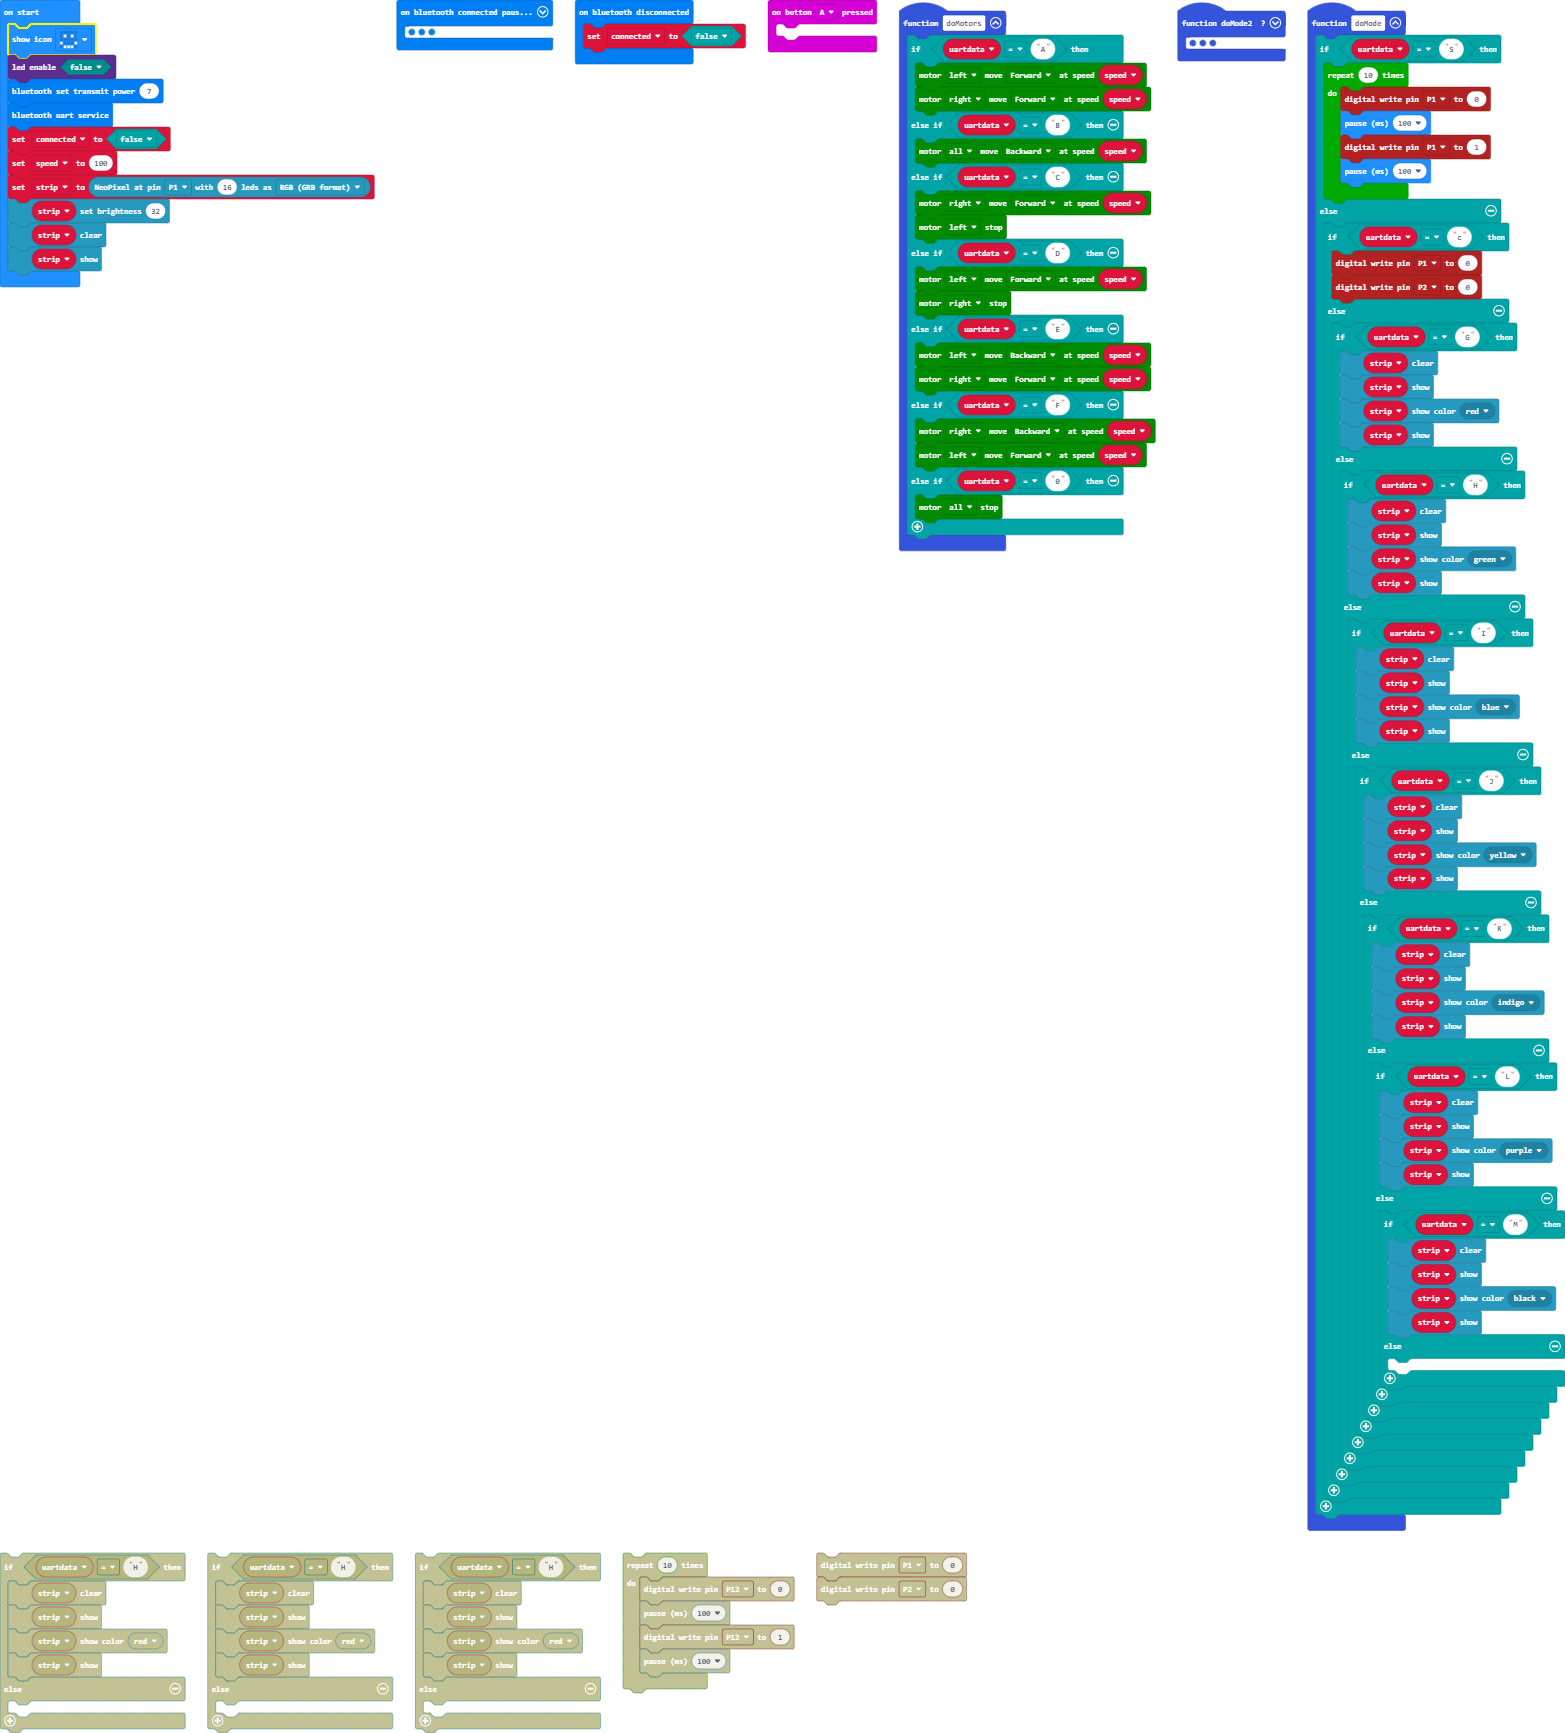
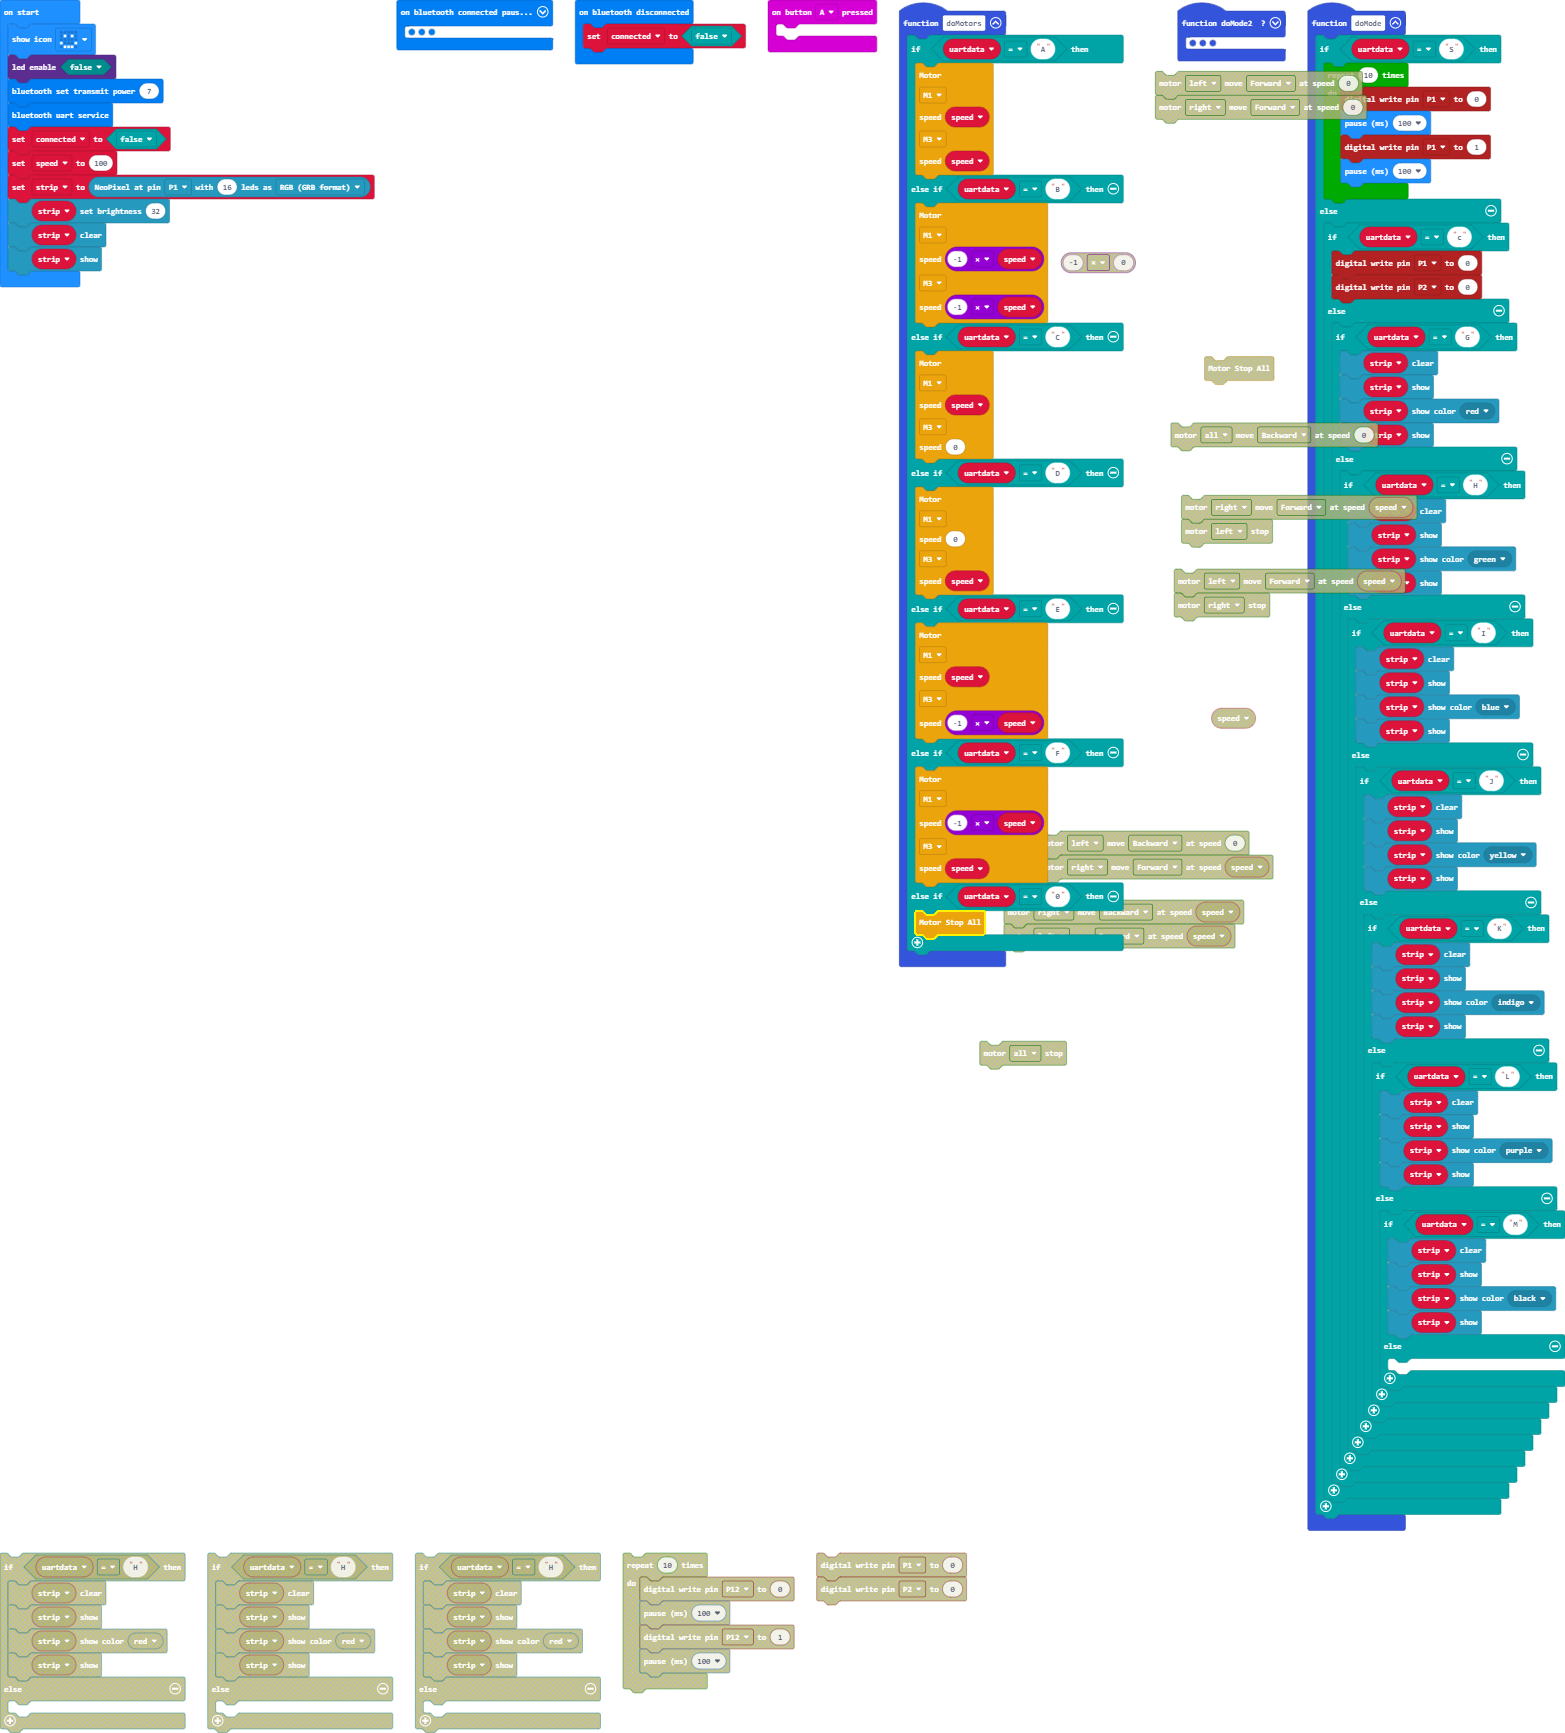
superbit version

Changed region(s): [[0.5521, 0.0312, 0.9201, 0.5609], [0.6134, 0.592, 0.7054, 0.6232], [0.7668, 0.4051, 0.7974, 0.4362]]

diff --git a/main.ts b/main.ts
@@ -84,24 +84,49 @@ input.onButtonPressed(Button.A, function () {
 })
 function doMotors () {
     if (uartdata == "A") {
-        maqueen.motorRun(maqueen.Motors.M1, maqueen.Dir.CW, speed)
-        maqueen.motorRun(maqueen.Motors.M2, maqueen.Dir.CW, speed)
+        SuperBit.MotorRunDual(
+        SuperBit.enMotors.M1,
+        speed,
+        SuperBit.enMotors.M3,
+        speed
+        )
     } else if (uartdata == "B") {
-        maqueen.motorRun(maqueen.Motors.All, maqueen.Dir.CCW, speed)
+        SuperBit.MotorRunDual(
+        SuperBit.enMotors.M1,
+        -1 * speed,
+        SuperBit.enMotors.M3,
+        -1 * speed
+        )
     } else if (uartdata == "C") {
-        maqueen.motorRun(maqueen.Motors.M2, maqueen.Dir.CW, speed)
-        maqueen.motorStop(maqueen.Motors.M1)
+        SuperBit.MotorRunDual(
+        SuperBit.enMotors.M1,
+        speed,
+        SuperBit.enMotors.M3,
+        0
+        )
     } else if (uartdata == "D") {
-        maqueen.motorRun(maqueen.Motors.M1, maqueen.Dir.CW, speed)
-        maqueen.motorStop(maqueen.Motors.M2)
+        SuperBit.MotorRunDual(
+        SuperBit.enMotors.M1,
+        0,
+        SuperBit.enMotors.M3,
+        speed
+        )
     } else if (uartdata == "E") {
-        maqueen.motorRun(maqueen.Motors.M1, maqueen.Dir.CCW, speed)
-        maqueen.motorRun(maqueen.Motors.M2, maqueen.Dir.CW, speed)
+        SuperBit.MotorRunDual(
+        SuperBit.enMotors.M1,
+        speed,
+        SuperBit.enMotors.M3,
+        -1 * speed
+        )
     } else if (uartdata == "F") {
-        maqueen.motorRun(maqueen.Motors.M2, maqueen.Dir.CCW, speed)
-        maqueen.motorRun(maqueen.Motors.M1, maqueen.Dir.CW, speed)
+        SuperBit.MotorRunDual(
+        SuperBit.enMotors.M1,
+        -1 * speed,
+        SuperBit.enMotors.M3,
+        speed
+        )
     } else if (uartdata == "0") {
-        maqueen.motorStop(maqueen.Motors.All)
+        SuperBit.MotorStopAll()
     }
 }
 let uartdata = ""
